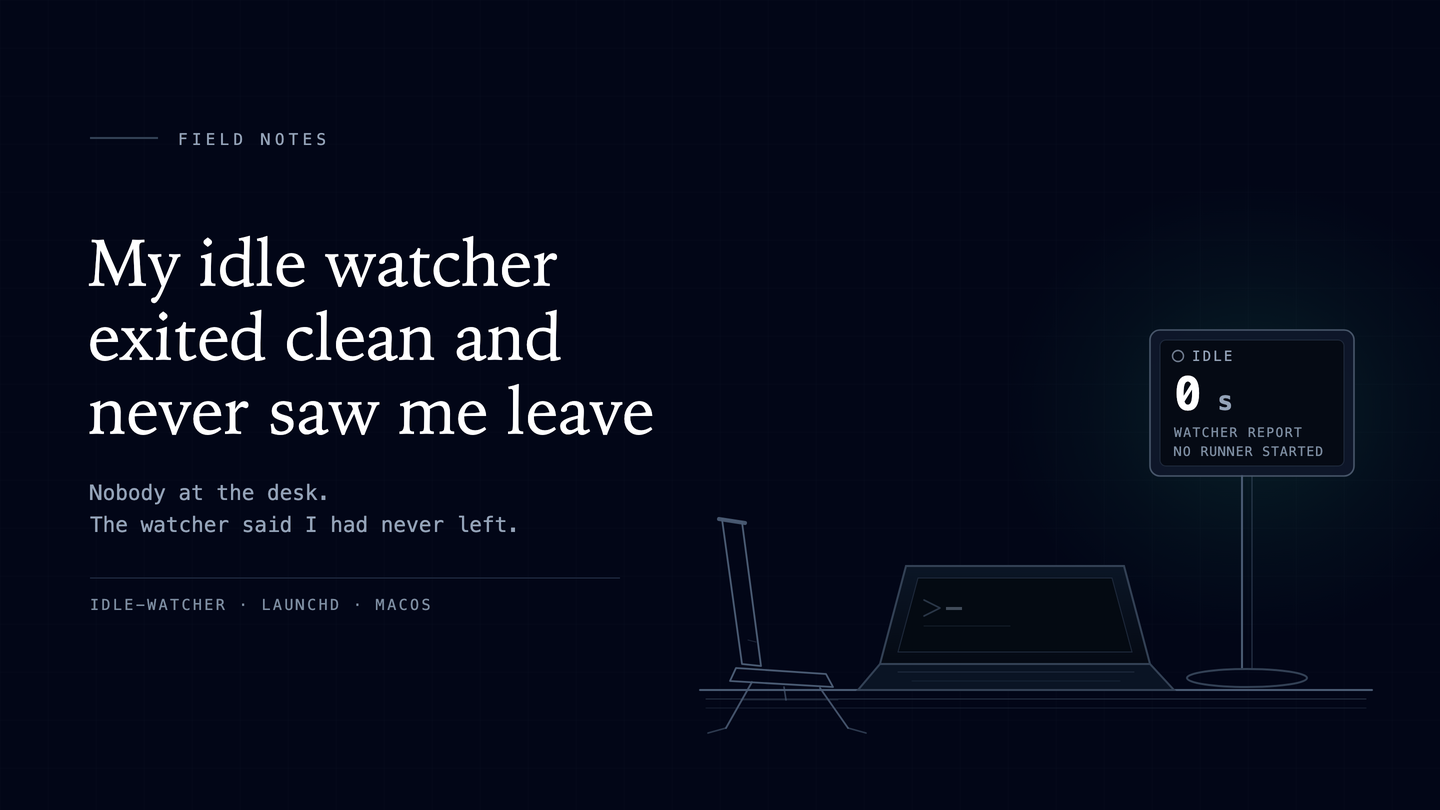
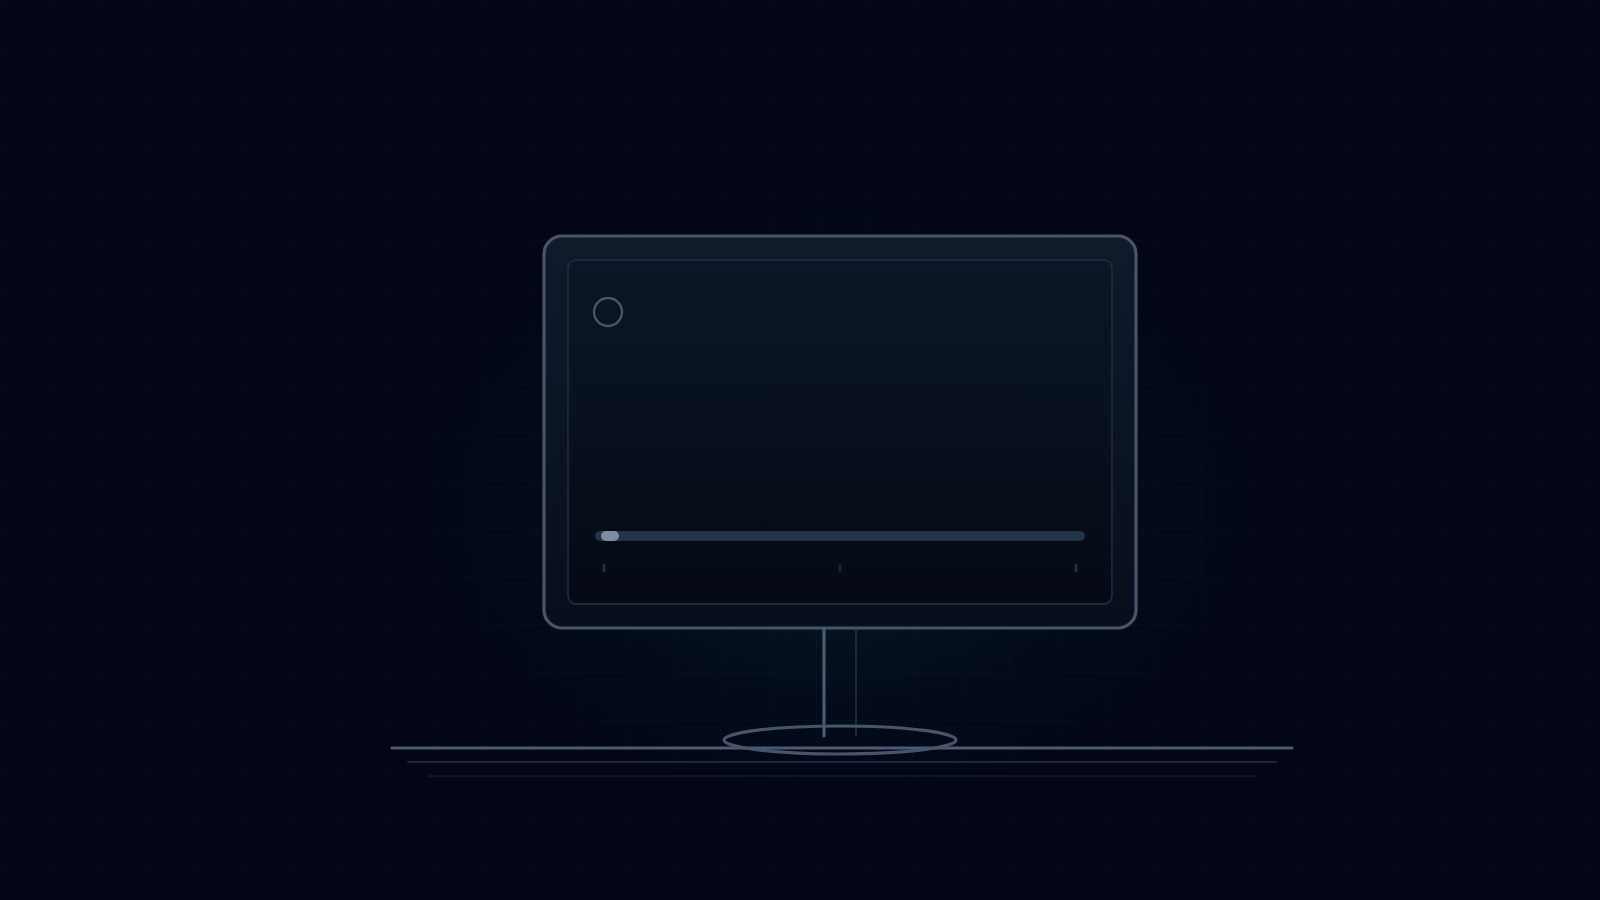
fix(figures): read-zero cover is one object, and the loop never pauses blank
The cover carried the title, dek and kicker as pixels, and the Fig 1
webp opened and closed on an empty frame, so a paused reader learned
nothing.

Cover: redrawn to the image playbook's cover rule. One object, no
words: a single monitor on a desk edge whose readout is a flat track
with a zero-width fill. 1600x900, plus a 1200x630 crop of the same
render for social. Title and dek stay in front matter only. Cover alt
text now describes the object.

Fig 1: every frame is the finished teaching frame. Three attempts,
0.0 vs 49 s, the gap and the footer are always drawn; the only motion
is the wall clock ticking one step per second through a full turn.
49 steps of 150 ms, then a 300 ms rest on the static final state. The
last decoded frame is byte-identical to fig1-final.png.

Fig 3 untouched. No date, no publish.

diff --git a/content/posts/the-watcher-that-read-zero.md b/content/posts/the-watcher-that-read-zero.md
@@ -8,7 +8,7 @@ tags = ['automation', 'ops', 'macOS', 'How-to']
 topics = ['Tech', 'AI and Agents']
 [cover]
 image = "/images/posts/the-watcher-that-read-zero-cover.png"
-alt = "A laptop on a desk with an empty chair, and a small monitor beside it that reads idle: 0 seconds"
+alt = "A single dark monitor alone on a desk edge, its readout a flat bar with no fill, standing for a watcher that measured nothing"
 caption = "Nobody at the desk. The watcher said I had never left."
 +++
 
